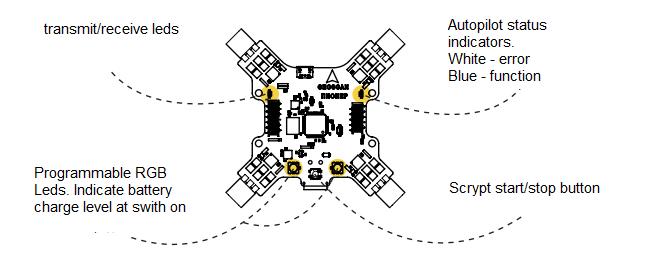
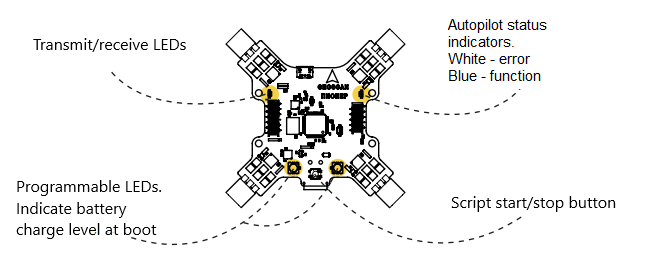
issues fix

diff --git a/flight/simulator.rst b/flight/simulator.rst
@@ -1,47 +1,47 @@
 Cимулятор
 =====================
 
-Если у вас пока что нет опыта управления квадрокоптером, а также если вы хотите совершенствовать свои навыки, настоятельно рекомендуется начать с полетов в симуляторе. Это позволит освоить управление, не подвергая риску квадрокоптер, себя и окружающих. 
+If you don’t have proper drone control skills or you want to improve it, it is highly recommended for you to use simulator. It allows you to master the controls without risking the drone.
 
-Комплектная аппаратура управления FlySky F6S позволяет обучаться полетам в большом количестве симуляторов просто подключив провод microUSB в соответсвующее гнездо в нижней части пульта. 
+FlySky F6S RC unit can be connected to PC via USB cable to start your training in any simulator.
 
-С назначением кнопок и стиков можно ознакомиться в разделе `Аппаратура`_.
+To get familiar with buttons and sticks, read `RC Unit`_
 
-Реакция "Пионера" на соответствующее движение стиков описана в разделе `Управление`_.
+Pioneer reaction on sticks movement is described in `Controls`_
 
-.. _Аппаратура: rc_unit.html
+.. _RC Unit: rc_unit.html
 
-.. _Управление: rc_unit.html
+.. _Controls: rc_control.html
 
 
-Из доступных на сегодняшний день симуляторов большинство является платными. Для получения начальных навыков пилотирования достаточно бесплатных аналогов или демо-версий. 
+Most flight simulators may be quite expensive, but to learn the basics a free or demo version is enough. 
 
-Мы предлагаем попробовать FPVFreerider. Скачать бесплатную версию можно `здесь`_ , прокрутив страницу до Download demo и выбрав версию для Вашей ОС.
+We suggest trying FPVFreerider for that purpose. A free demo can be downloaded `here`_. Just scroll the page down and choose the version for your OS.
 
-.. _здесь: https://fpv-freerider.itch.io/fpv-freerider
+.. _here: https://fpv-freerider.itch.io/fpv-freerider
 
-Установив программу, подключите пульт к компьютеру, включите его и запустите симулятор. Все тумблеры на пульте должны быть в крайнем верхнем положении.
+When installation is complete, plug the transmitter to your PC and turn it on. Than start FPVFreerider. All switches and sticks should be in upper position.
 
 .. image:: /_static/images/fpv_freerider_main.png
 
-Выберите управление через USB controller и перейдите в пункт **calibrate controller**. Далее следуйте указаниям на экране, поочередно приводя соответствующий стик в крайнее положение и нажимая ОК. По завершении калибровки проверьте правильность реакции программы на движения стиков, подправьте ошибки с помощью ползунков **trim**. Виртуальный пульт должен в точности повторять ваши движения, от этого зависит удобство управления.
+Choose “control uing USB” and calibrate controller. Follow the guidance, moving sticks as shown on the screen and clicking OK. When finished, check if everything is done correctly, use sliders to trim for better accuracy. A virtual controller should perform exactly as the real one in your hands.
 
-Закончив калибровку, откройте доступную карту для полета. 
+Then open a available map for flight training session.
 
-Вначале обычно рекомендуется научиться управлять квадрокоптером с видом от третьего лица (Line of sight) и в режиме стабилизации. Для этого шелчком мыши по кнопкам в левом верхнем углу экрана выберите режим self-level, low rates и camera, как на скриншоте:
+It is usually recommended to start flying with third-person view (also called line of sight) in stabilise mode. Use the buttons to the top left corner of your screen to choose self-level, low rates and camera mode like on the screenshot below.
 
 .. image:: /_static/images/fpv_freerider.png
 
-**Перейдем к полетам**:
+**Flight**:
 
-* Плавно толкните левый стик вперед. Когда квадрокоптер оторвется от поверхности, постарайтесь удержать его на небольшой высоте, а затем приземлиться, плавно возвращая стик в нижнее положение. Научитесь чувствовать момент взлета и касания. 
+* Gently push the left stick forward. When the quadcopter lifts off the ground, try to hold it at the same altitude and land, using the throttle stick. Learn the moment when the drone starts to lift off.
 
-* удерживая квадрокоптер на одной высоте, толкните и отпустите правый стик в любом направлении. Обратите внимание, что при наклоне квадрокоптер не только разгоняется, но и теряет высоту. Чтобы компенсировать снижение, добавьте оборотов левым стиком. Научитесь летать в разных направлениях без потери высоты и не упуская квадрокоптер из виду. Если хотите начать заново, нажмите кнопку Reset в левой части экрана.
+* Holding the drone at the same altitude, push the right stick in any direction. Note that the drone not only accelerates but also looses altitude when tilted. To compensate it, add a little bit of throttle with the left stick. Learn to fly in different directions without loosing altitude. You can click Reset button any time to start over.
 
-* Наклон левого стика в стороны управляет поворотом квадрокоптера. При изменении направления управлять полетом становится сложнее, т.к. надо учитывать в какую сторону "смотрит" аппарат. Стандартное упражнение на такой случай - полет по квадрату. Попробуйте летать по воображаемому квадрату небольшой площади, разворачивая коптер на 90 градусов в каждом угле. Пролетев против часовой стрелки, смените направление. Постепенно вы научитесь контролировать направление полета. 
+* Pushing the left stick to the side controls the drones yaw direction. Changing course makes it harder to control as you have to take the shift into account. Try flying in square trajectory, turning the drone 90° in each corner. It will make it easier for you to learn if you do complex movements step by step.
 
-Управление квадрокоптером - это навык, требующий практики. Осваивая полет в симуляторе, вы сможете чувствовать свой прогресс. Научившись лететь в выбранном направлении, не допуская падений и не теряя квадрокоптер из виду, можете смело переходить к практике на "Пионере".
+Flying the drone is a skill that requires some practice. Mastering the flight in simulator you will feel your progress. When you can fly in selected direction without loosing or crashing the drone, you are prepared for actual flight using Pioneer.
 
 .. note::
-	Также симулятор позволяет получить навыки управления в режиме вида от первого лица (FPV) с курсовой камеры. Для этого щелчком мыши переключите кнопку Camera в режим FPV.  
+	The simulator gives the ability to learn first person view (FPV) flying as well. To toggle it, switch the camera button in FPV mode.
 

diff --git a/flight/operation_lipo.rst b/flight/operation_lipo.rst
@@ -1,39 +1,39 @@
-Аккумуляторная батарея
+LiPo battery
 ========================
 
 .. image:: /_static/images/akb.png
 	:align: center
 
-В качестве источника энегрии "Пионер" использует LiPo аккумулятор емкостью 1300 мАч. Батареи такого типа легкие и мощные, но могут быть пожароопасны при неправильной эксплуатации. Прочитав этот раздел, вы научитесь работать с LiPo аккумуляторами.
+As a power source, a 1300 mAh LiPo battery is used. This type of battery is lightweight and powerful, but may be fire hazardous if used incorrectly. In this section you will learn to use LiPo battery
 
-**Зарядка**
+**Charging**
 
-#. Для зарядки выберете негорючую поверхность вдали от легковоспламенимых предметов (шторы, ковры, мягкая мебель)
-#. Убедитесь что на аккумуляторе нет внешних признаков поврежденния, вмятин, разрывов оболочки.
-#. Подключите зарядное устройство к сети 220 В.
-#. Подключите балансировочный вывод к соответствующиему разъему зарядного устройства.
-#. Индикаторы заряда должны гореть красным цветом. Зеленый цвет индикатора сигнализирует о полном заряде соответствующей ячейки. 
-#. Дождитесь полной зарядки аккумулятора и отключите его от зарядного устройства. Нельзя оставлять заряжающийся аккумулятор без присмотра!
+#. Choose a incombustible surface to place a charging set. This should be away from any flammable objects (like carpets or curtains)
+#. Make sure the battery doesn't have any external damages, bumps or shell fractures.
+#. Plug in the charging station to 220v grid
+#. Plug the balance connector to the charging station
+#. The charge indicators should colour red. The green light indicates the battery is charged 
+#. Wait for LiPo to complete charging and unplug it from charging station. Do not leave the charging battery unattended!
 
 .. note::
-  При длительном хранении аккумулятора без использования рекомендуется разрядить его примерно наполовину и дозаряжать до того же состояния раз в 3-4 месяца чтобы не допустить переразряда. 
+  For long-term storage it is recommended to discharge it 50% and check every 3-4 moths to prevent a deep discharge lower than 10%. Part-charge if necessary
 
 
 .. attention::
-	Не допускается зарядка и эксплуатация поврежденного аккумулятора. До момента утилизации его следует хранить отдельно от исправных, вдали от потенциально воспламенимых предметов и поверхностей.
+	Charging or using a damaged LiPo is prohibited. It must be stored separately away from flammable objects until the utilization moment
   
 
-**Эксплуатация**
+**Operation**
 
-* При установке аккумулятора в раму необходимо следить, чтобы провода не попадали в плоскость вращения пропеллеров.
-* Подключите аккумулятор к квадрокоптеру непосредственно перед взлетом и отключите сразу после окончания полета.
-* Не допускайте короткого замыкания между контактами аккумулятора. 
-* Перед взлетом и после посадки осмотрите аккумулятор на наличие повреждений, вмятин, проколов и разрывов оболочки. Недопустим нагрев батареи выше 50\ :sup:`о`\ C и разбухание оболочки.
+* When placed in the frame, the LiPo wires should be kept away from the props plane
+* Plug in the battery before take-off and disconnect it right after the landing
+* Don't allow a short circuit between the LiPo contacts. 
+* Check the battery for damages, punctures or bumps before and after flight. Heating it above 50\ :sup:`о`\ C and swelling is unacceptable. 
 
 
 .. danger::
-	В случае явного повреждения аккумулятора в полете **не пытайтесь немедленно извлечь его из рамы!** Механический изгиб и дополнительный приток воздуха могут спровоцировать интенсивное воспламенение батареи и привести к серьезным ожогам. При появлении дыма или пламени из квадрокоптера немедленно совершите посадку на негорючую поверхность.	
+	If the battery is severely damaged, do not try to extract it immediately ! The bend and additional air inflow may cause intensive flame and lead to burn. If you notice a flare or smoke from the drone, land on a non-flammable surface immediately.	
 
-	**Недопустимо тушить аккумулятор водой!** Для тушения можно использовать плотную ткань, песок, землю, углекислотный или порошковый огнетушитель. При невозможности тушения дождитесь прекращения реакции и утилизируйте батарею.
+	**Do not try to extinguish the burning LiPo with water!** ДUse dense cloth, sand, soil, carbon dioxide fire extinguisher. If none is accessible, wait for the battery to burn out and utilise it.
 
-	Продукты горения LiPo аккумулятора **крайне токсичны**, не вдыхайте образовавшийся дым.  
+	LiPo combustion products are extremely **toxic**, do not breathe in the smoke.

diff --git a/flight/rc_unit.rst b/flight/rc_unit.rst
@@ -1,35 +1,39 @@
-Пульт радиоуправления 
+RC transmitter 
 =======================
 
-Данный раздел описывает процесс управления квадрокоптером "Пионер" с помощью аппаратуры FlySky i6S.
+This section describes the basics of Pioneer controls using FlySky i6S.
 
 .. image:: /_static/images/remote_control.png
 	:align: center
 
-| По умолчанию пульт готов к эксплуатации и не требует дополнительной настройки или привязки. 
-| Квадрокоптер совместим с пультами управления, которые поддерживают протокол PPM и работают с приемником FlySky. 
-| Используйте стики для управления полетом квадрокоптера.
-| Используйте переключатель режимов для выбора режима полета квадрокоптера. 
-| Чтобы включить пульт, нажмите и удерживайте кнопки включения/выключения одновременно.
+By default the controller is ready to use and doesn't require any additional setting
+The drone is compatible with PPM protocol based controllers and uses a FlySky receiver
+Use both sticks to control the drone
+Use the mode switch to change the flight mode
+Push and hold both power buttons to turn the controller on/off.
 
 .. image:: /_static/images/remote_control_2.png
 	:align: center
 
-**Изменение режима работы пульта:**
+**Changing the controller mode**
 
-| Используйте переключатель SWB. Переключатель в верхнем положении – Режим управления с пульта – выбор режима полета переключателем SWC. 
-| Переключатель в среднем положении – режим автоматического удержания положения с системой навигации или с GPS – Управление квадрокоптером происходит с пульта. 
-| Переключатель в нижнем положении – режим автоматического полета по программе. 
-| Во время полета по программе пилот может всегда взять управление на себя и переключиться в режим ручного управления.
 
-**Изменение режима полета:**
+* Use SwB switch. The top position is for manual control mode. To set the flight mode, use SwC switch.
+* SwB switch in middle position turns navigational system mode on. Quadcopter will use GPS or local positioning system.
+* SWB switch in lower position activates a pre-programmed “mission” flight mode
+* When performing a mission flight, the operator can take controls by witching in nav system or manual control using SwB switch.
 
-| Используйте переключатель SWC на пульте. Переключатель в верхнем положении – Режим стабилизации – Стик газа отвечает за изменение уровня мощности, подаваемой на моторы. 
-| Переключатель в среднем положении – Режим удержания высоты – квадрокоптер автоматически удерживает высоту, стик газа отвечает за изменение вертикальной скорости.
-| Если поставить стик газа по центру, квадрокоптер будет удерживать высоту. Если переместить стик вверх, квадрокоптер начнет подниматься, чем дальше от центра, тем быстрее. 
-| Если переместить стик газа вниз, квадрокоптер начнет снижаться. Переключатель в нижнем положении – Режим удержания высоты и курса. 
-| Управление высотой происходит как в предыдущем режиме. Отличие в том, что квадрокоптер запоминает направление курса в момент включения моторов. 
-| Далее можно вращать квадрокоптер по углу рыскания, при этом направления вперед/назад и влево/вправо будут неизменны.
 
-.. attention:: Для определения высоты полетный контроллер использует барометр, который измеряет атмосферное давление. Если давление воздуха меняется, аппарат будет реагировать на изменение давления, а не на изменения фактической высоты.
+**Flight mode set**
+
+
+* Use SwC switch. In top position - stabilize mode on. In this mode throttle stick changes the power output of motors.
+* SWC switch in middle position activates althold  mode. Throttle stick controls vertical velocity. 
+* The lower SwC switch activates headless mode. If you leave the throttle stick in middle position, the drone will hold current altitude. If the stick is moved up, the quadcopter will gain altitude
+* If throttle stick is moved down, the drone will loose altitude. SW& switch in lower position activates loiter mode
+* Altitude control is the same as before, but quadcopter will remember yaw direction when armed
+* You can spin the drone with yaw stick but it will maintain the primary orientation
+
+
+.. attention:: Flight controller uses a barometric sensor to estimate the altitude. When the pressure is changed, the drone will react according to it, not actual altitude change.
 

diff --git a/flight/rc_control.rst b/flight/rc_control.rst
@@ -1,9 +1,9 @@
-Управление
+Controls
 ==========
 
-**Для управления "Пионером" с пульта управления следуйте правилам приведенным ниже:**
+**To control the Pioneer via RC transmitter, follow these rules:**
 
-**Управление высотой**
+**Altitude control**
 
 .. image:: /_static/images/rc_control_1.png
 	:align: center
@@ -11,36 +11,36 @@
 .. image:: /_static/images/rc_control_2.png
 	:align: center
 
-.. important:: При перемещении стика газ/курс от себя квадрокоптер набирает высоту, при перемещении на себя – снижается.
+When throttle/yaw stick is pushed forward, the drone will gain altitude and decline when stick pulled down.
 
 
-**Вращение вокруг своей оси**
+**Direction change**
 
 .. image:: /_static/images/rc_control_3.png
 	:align: center
 
-.. important:: При перемещении стика газ/курс влево/вправо квадрокоптер поворачивается вокруг своей оси.
+If throttle/yaw stick is pushed right or left, the drone will turn in the given direction.
 
 
-**Полет вперед/назад**
+**Forward/reverse flight**
 
 .. image:: /_static/images/rc_control_4.png
 	:align: center
 
-.. important::  При перемещении стика крен/тангаж от себя, квадрокоптер наклоняется вперед и летит вперед. При перемещении стика крен/тангаж на себя, квадрокоптер наклоняется назад и летит назад.
+Push the right stick up to tilt the drone and move forward. When stick is pulled down, the drone will tilt and move backwards.
 
 
-**Полет боком влево/вправо**
+**Moving left/right**
 
 .. image:: /_static/images/rc_control_5.png
 	:align: center
 
-.. important:: При перемещении стика крен/тангаж влево/вправо, квадрокоптер летит боком влево/вправо.
+When right stick is moved left or right, the drone tilts and moves in the same direction.
 
 
-.. attention::  Управляйте квадрокоптером плавно, не дергайте стики пульта слишком резко или сразу в крайнее положение. Пульт управления держите двумя руками, пальцы обеих рук всегда держатся за стикию. Помните, что при выполнении маневра коптер может снижаться, будьте готовы компенсировать снижение плавным увеличением оборотов моторов.
+.. attention:: Operating the radio control, move the sticks smoothly. Hold the transmitter with both hands, thumbs on the sticks. Remember that while manoeuvring the drone may decline, and be ready to compensate this by giving a bit more throttle.
 
-Для выполнения первого полета перейдите в раздел: `Подготовка к полету`_ 
+To perform your first flight go to `Flight preparation`_
 
-.. _Подготовка к полету: flight_preparation.html
+.. _Flight preparation: flight_preparation.html
 

diff --git a/flight/operation_flight.rst b/flight/operation_flight.rst
@@ -1,16 +1,16 @@
-Безопасность при полете
+Flight safety
 ==============================
 
-"Пионер" предназначен для эксплуатации в помещении и на открытом воздухе при температуре окружающей среды от 0 до +40 °С и относительной влажности не более 80%. Квадрокоптер не предназначен для полетов в условиях выпадения дождя, снега и при порывистом ветре. Для безопасной эксплуатации "Пионера" соблюдайте следующие правила:
+Pioneer is designed for both indoor and outdoor usage. The temperature should be from 0 to +40 °C and humidity no more than 80%. Quadcopter is not intended to fly in the rainy, snowy or windy conditions. Follow these rules for safe operation:
 
-* Перед полетом убедитесь в отсутствии препятствий непосредственно над квадрокоптером (лампы, ветки)
-* При полете особого внимания требуют провода и тросы, натянутые на высоте. По возможности избегайте полетов вблизи таких объектов.
-* Избегайте полетов при сильном и порывистом ветре. Для обеспечения безопасного полета скорость ветра не должна превышать 5 м/с. Помните, что при наборе высоты ветер может менять скорость и направление.
-* Не запускайте выполнение программы с элементами полета при подключенном проводе USB. Если небходима калибровка ESC - демонтируйте пропеллеры.
-* Перед каждым полетом проверяйте целостность пропеллеров. Полет с гнутым или разрушенным пропеллером может привести к повреждению квадрокоптера.
+* Make sure there`s no obstacles (tree branches, lamps) above the drone before take-off.
+* Look out carefully for wires and cables as they can damage the drone in case of collision. If possible, do not perform flight near such objects.
+* Do not fly the drone in gusting wind. A safe wind speed is no more than 5 m/s. Remember that the wind speed and direction may differ with altitude.
+* Do not start programs with flight conditions with USB and LiPo connected to the drone. Remove the props in case ESC calibration is required.
+* Check the props integrity before every flight. Using a bent of damaged propeller may cause a drone failure.
 
 .. note::
-	Повреждение винта в полете можно распознать по изменению звука и характера полета. По возможности не продолжайте полет с поврежденным винтом.
+	During flight, propeller damage can be recognised by change in drone sound and performance. Do not continue the flight with damaged prop, if possible
 
 
 

diff --git a/flight/flight_preparation.rst b/flight/flight_preparation.rst
@@ -1,24 +1,24 @@
-Подготовка к полету - первый старт.
+Flight preparation - first start
 ===================================
 
-Перед полетом прочтите раздел `Управление`_
+Read `Controls`_ before the flight
 
-***Правильный старт квадрокоптера требует определенной последовательности действий, которая выглядит следующим образом:**
+**A proper quadcopter start requires the following action sequence:**
 
-1. Полностью зарядите аккумуляторную батарею квадрокоптера и проверьте заряд батареек установленных в пульте.
-2. Проверьте квадрокоптер на предмет отсутствия механических повреждений.
-3. Установите стик газ/курс в положение минимум - до упора на себя.
-4. Включите пульт управления.
-5. До упора вставьте аккумулятор в отсек в нижней части квадрокоптера. Убедитесь, что аккумулятор установлен надежно и хорошо закреплен.
-6. Подключите разъем аккумулятора к разъему на базовой плате.
-7. Прозвучит звуковой сигнал и на квадрокоптере загорятся светодиоды.
-8. Дождитесь пока светодиод статуса начнет мигать синим.
-9. Запустите моторы. Для этого переместите и удерживайте левый стик в крайнем нижем правом положении.
-10. Дождитесь пока все винты начнут вращаться и плавно взлетайте. Во время полета соблюдайте правила эксплуатации. Не допускайте падения квадрокоптера. 
+1. Fully charge the LiPo battery and check the transmitter battery charge level.
+2. Check if quadcopter has no mechanical damage.
+3. Place throttle/yaw stick in the lower position.
+4. Turn on the transmitter.
+5. Place the LiPo battery in the battery bay underneath the quadcopter. Make sure it is secured tightly.
+6. Plug in the battery connector to the board.
+7. A beep should be heard and the LEDs light up.
+8. Wait until the status LED starts blinking blue.
+9. Turn on the motors. To do this, place the left stick in the lower-right position.
+10. Wait until all props start spinning and take off smoothly. Stick to safety rules during flight, don't let the drone crash. 
 
-.. _Управление: rc_control.html 
+.. _Controls: rc_control.html 
 
-11. После полета остановите моторы. Для этого переместите и удерживайте левый стик в крайнем нижнем левом положении.
+11. Stop the motors after landing. To do this, place the left stick in the lower left position.
     
 .. image:: /_static/images/flight_preparation.png
 	:align: center

diff --git a/settings/settings_main.rst b/settings/settings_main.rst
@@ -1,28 +1,28 @@
-Настройки
+Settings
 ==============
 
 .. image:: /_static/images/tuning.png
 	:align: center
 
-Прошивку "Пионера" при необходимости можно обновить. В этом разделе содержится подробная инструкция, которая вам поможет.
 
-В случае замены приемника управления или пульта, перейдите в раздел `связь пульта с приемником`_
+Pioneers firmware can be upgraded. This section has necessary info on update process.
 
-Также вы можете заново `настроить пульт`_, если что-то сбилось.
+If your RC transmitter or receiver were changed, proceed to `RC connection `_
 
-Инструкция по точной настройке "Пионера" находится в разделе `параметры автопилота`_
+You can `set up the transnitter`_ in case of malfunction.
 
+`Autopilot parameters`_ instruction will help you set parameters correctly. 
 
-.. _связь пульта с приемником: rc_connection.html
+.. _RC connection: rc_connection.html
 
-.. _настроить пульт: rc_setting.html
+.. _set up the transnitter: rc_setting.html
 
-.. _параметры автопилота: autopilot_parameters.html
+.. _Autopilot parameters: autopilot_parameters.html
 
 
 .. toctree::
    :maxdepth: 1
-   :caption: Содержание:
+   :caption: Contents:
 
    firmware_upgrade
    rc_setting

diff --git a/flight/flight.rst b/flight/flight.rst
@@ -1,11 +1,11 @@
-Полет
+Flight
 ==========
 
-Этот раздел поможет вам освоить управление квадрокоптером и совершить первый успешный полет. Рекомендуется прочитать его, чтобы освоить управление и технику безопасности, прежде чем перейти к самостоятельным полетам.
+This chapter will help you master the quadcopter controls and perform your first flight. It is strongly recommended to read it and learn the safety rules before takeoff.
 
 .. toctree::
    :maxdepth: 2
-   :caption: Содержание:
+   :caption: Contents:
 
 
 
